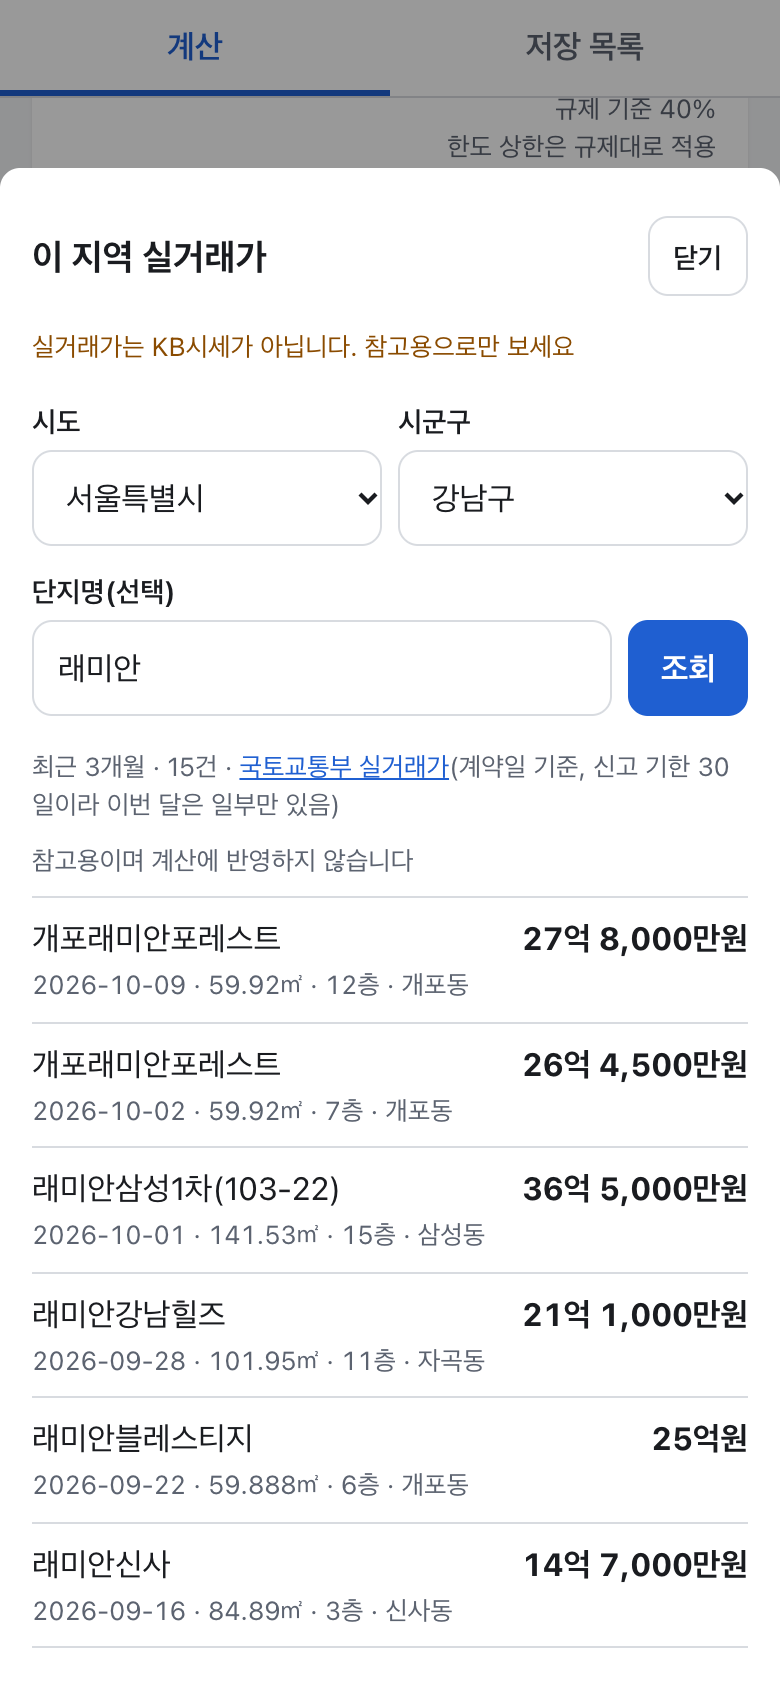
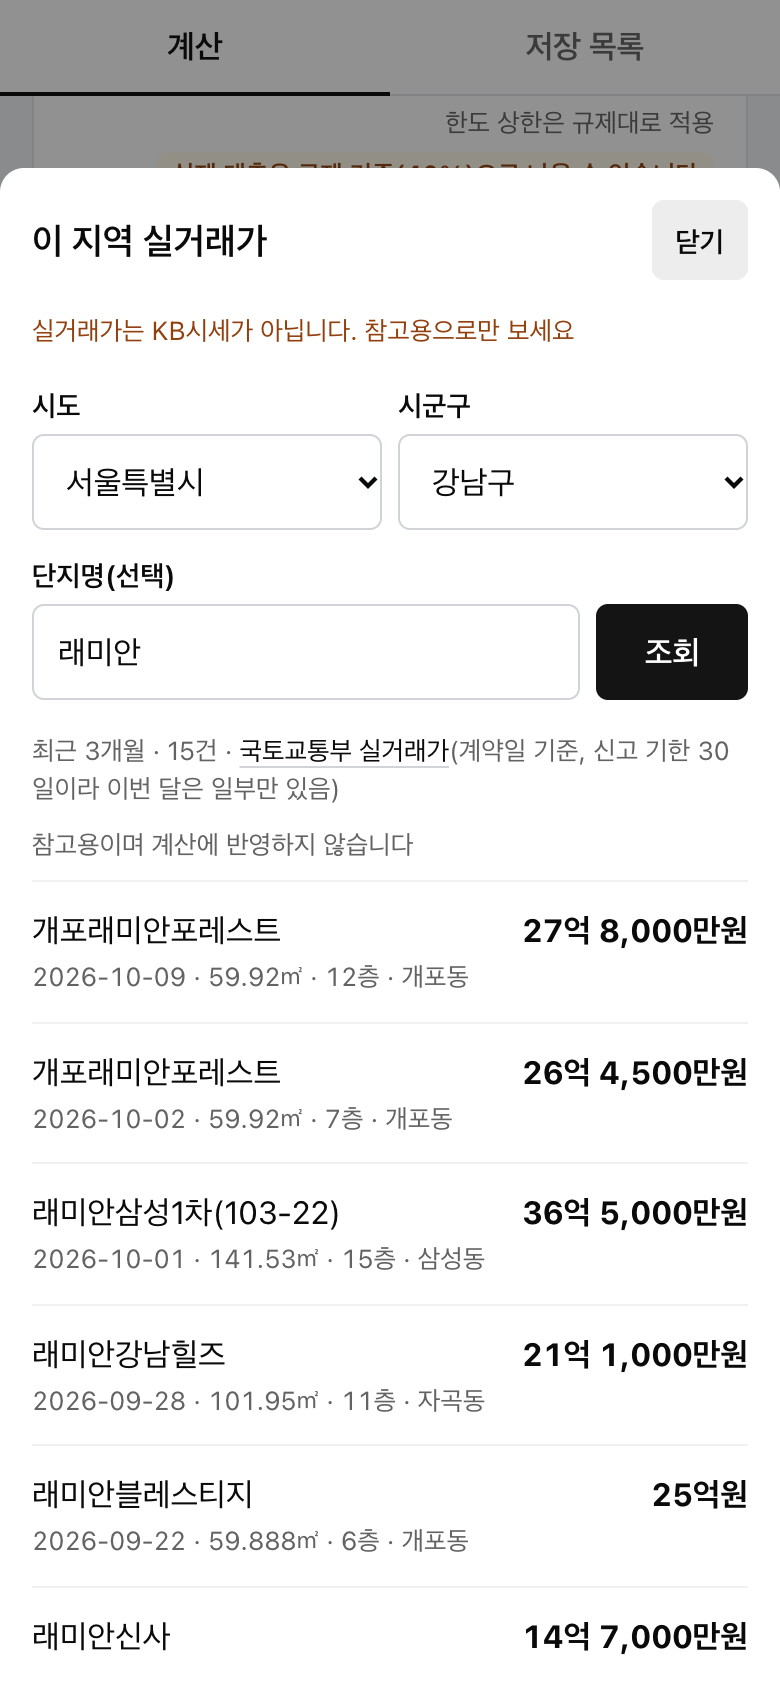
docs: README 화면 사진을 새 디자인으로 교체

diff --git a/.cony/log.md b/.cony/log.md
@@ -279,3 +279,7 @@
 - 요청: Taste skill(Leonxlnx/taste-skill, design-taste-frontend) 설치 후 UI 다시 디자인 → `~/.claude/skills/design-taste-frontend`에 설치(프로젝트 `.claude/`는 hook 보호)
 - AI: fe가 앱 화면 규칙으로 `achromatic-ledger`(seed 334206779) 선택. 글꼴은 Geist에 한글이 없어 `--keep type`으로 시스템 한글 글꼴 유지
 - AI: 잉크·흰 카드·청회색 바탕, 쉬는 그림자 제거, 주 동작 검정 채움, 선택 칩은 잉크 테두리, 결과 카드의 필요한 자기자금을 장부 합계 줄처럼 가장 크게. 동작·문구·라우트 변경 없음
+
+## README 사진 새 디자인으로 교체
+
+- 요청: 리디자인(#17) 후 README 사진 6장을 운영 주소에서 다시 캡처해 교체

diff --git a/.cony/board.md b/.cony/board.md
@@ -1,6 +1,6 @@
 # LTV 70% 기본 · 취득세·중개보수 포함 자기자금 · 목록 수정·이름순
 
-> 상태: 진행 중 · 마지막 업데이트: 2026-10-23 00:35
+> 상태: 진행 중 · 마지막 업데이트: 2026-10-23 08:24
 
 ## 태스크
 
@@ -25,7 +25,7 @@
 
 ## 지금 하는 일
 
-taste 리디자인 PR CI 대기
+README 사진 교체 PR CI 대기
 
 ## 최근 결정
 
@@ -41,6 +41,6 @@ taste 리디자인 PR CI 대기
 
 ## PR
 
-[#16](https://github.com/hwanyoungChoi/mortgage-fit/pull/16) 머지
+[#17](https://github.com/hwanyoungChoi/mortgage-fit/pull/17) 머지
 
 <!-- spec: specs/fees-and-default-ltv.md -->
